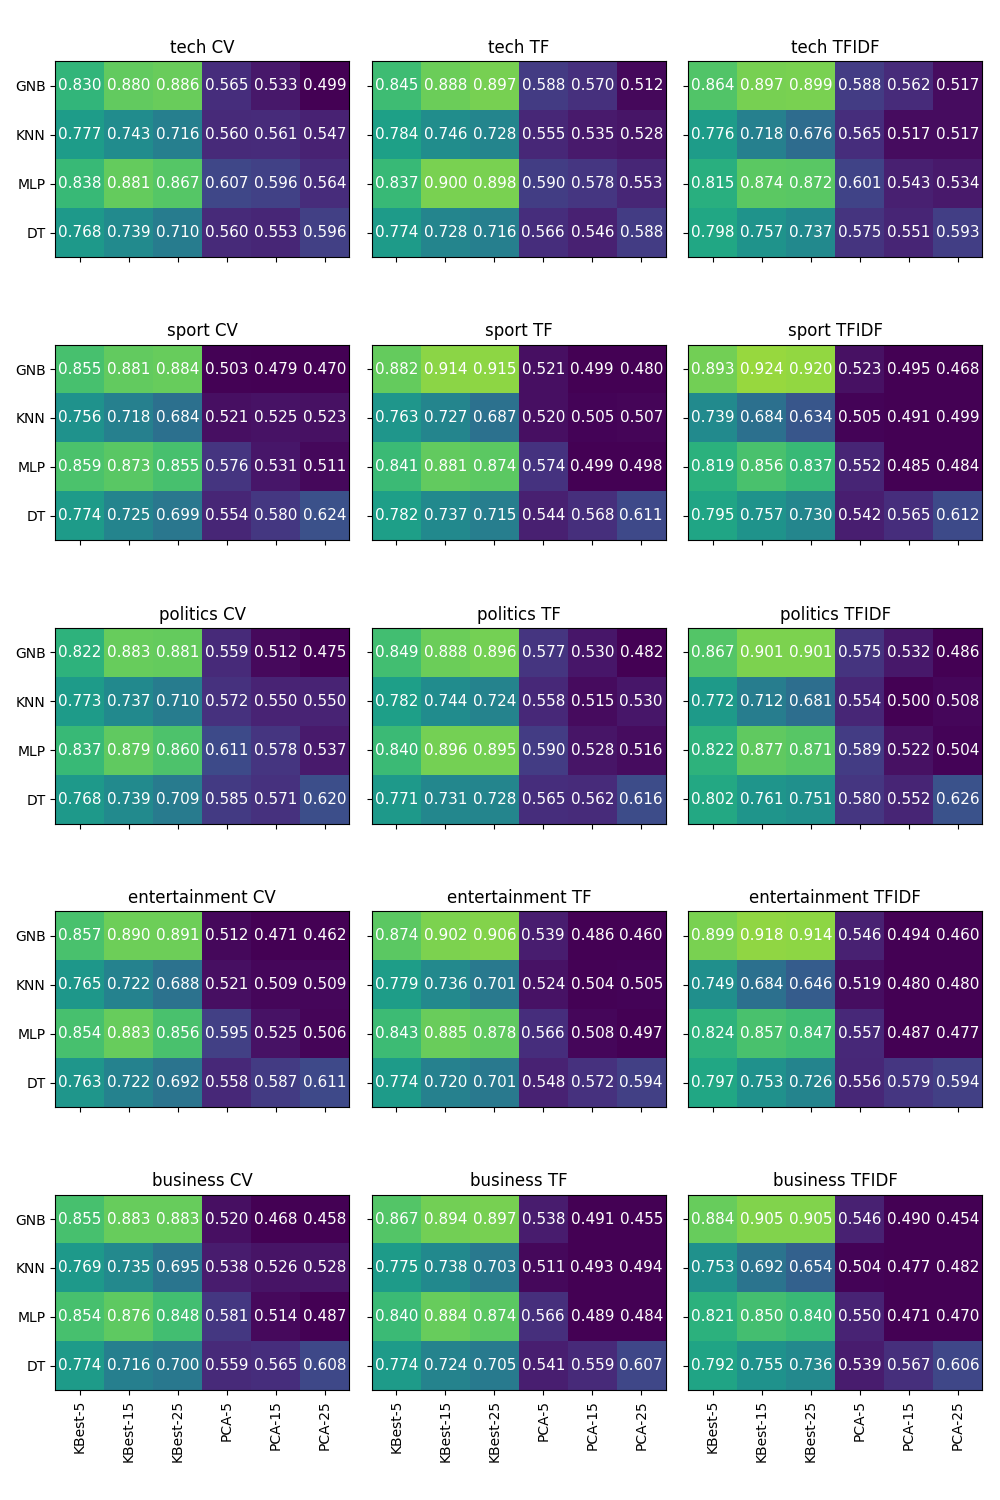
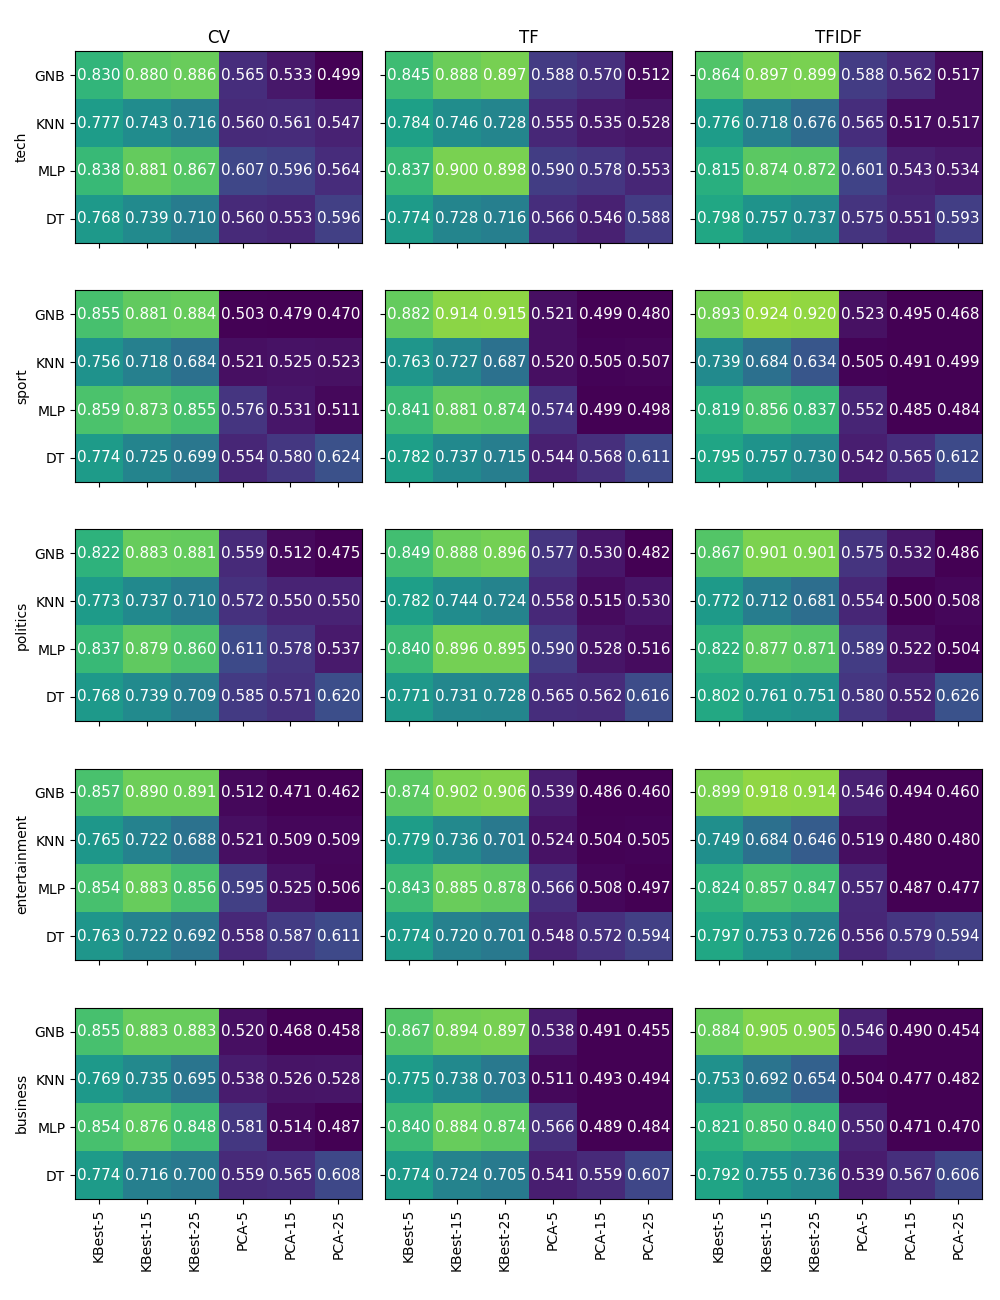
plt

diff --git a/exp_news_analyse_h.py b/exp_news_analyse_h.py
@@ -6,22 +6,27 @@ extractors = ['KBest-5', 'KBest-15', 'KBest-25', 'PCA-5', 'PCA-15', 'PCA-25']
 clfs = ['GNB', 'KNN', 'MLP', 'DT']
 vectorizers = ['CV', 'TF', 'TFIDF']
 
-fig, ax = plt.subplots(5, 3, figsize=(10,15), sharex=True, sharey=True)
+fig, ax = plt.subplots(5, 3, figsize=(10,13), sharex=True, sharey=True)
 
 # collect
 for d_id, dir in enumerate(dirs):
-    res = np.load('res_news_%i.npy' % d_id)[0]
+    res = np.load('res/res_news_%i.npy' % d_id)[0]
     # print(res.shape) # vactorizers, extractors, clfs, news
     for v_id, vect in enumerate(vectorizers):
         r_mean = np.mean(res[v_id], axis=2)
 
         axx = ax[d_id, v_id]
         axx.imshow(r_mean.T, vmax=1, vmin=0.5)
-        axx.set_title(dir+' '+vect)
+        # axx.set_title(dir+' '+vect)
         axx.set_xticks(range(len(extractors)))
         axx.set_xticklabels(extractors, rotation=90)
         axx.set_yticks(range(len(clfs)))
         axx.set_yticklabels(clfs)
+
+        if v_id==0:
+            axx.set_ylabel(dir)
+        if d_id==0:
+            axx.set_title(vect)
 
         for _a, __a in enumerate(extractors):
             for _b, __b in enumerate(clfs):
